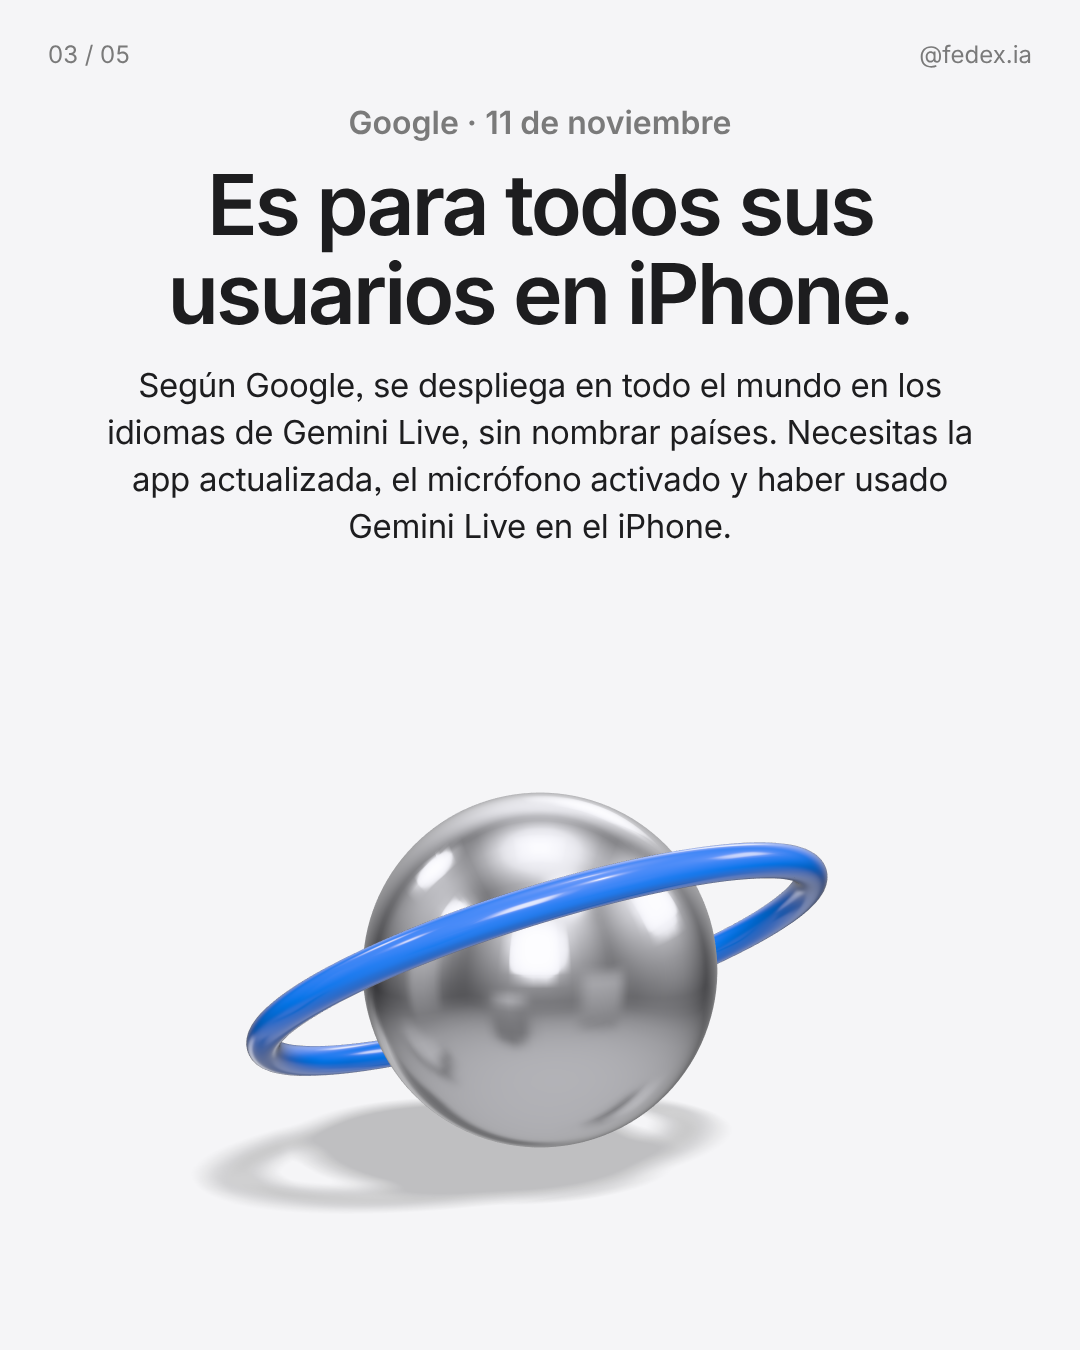
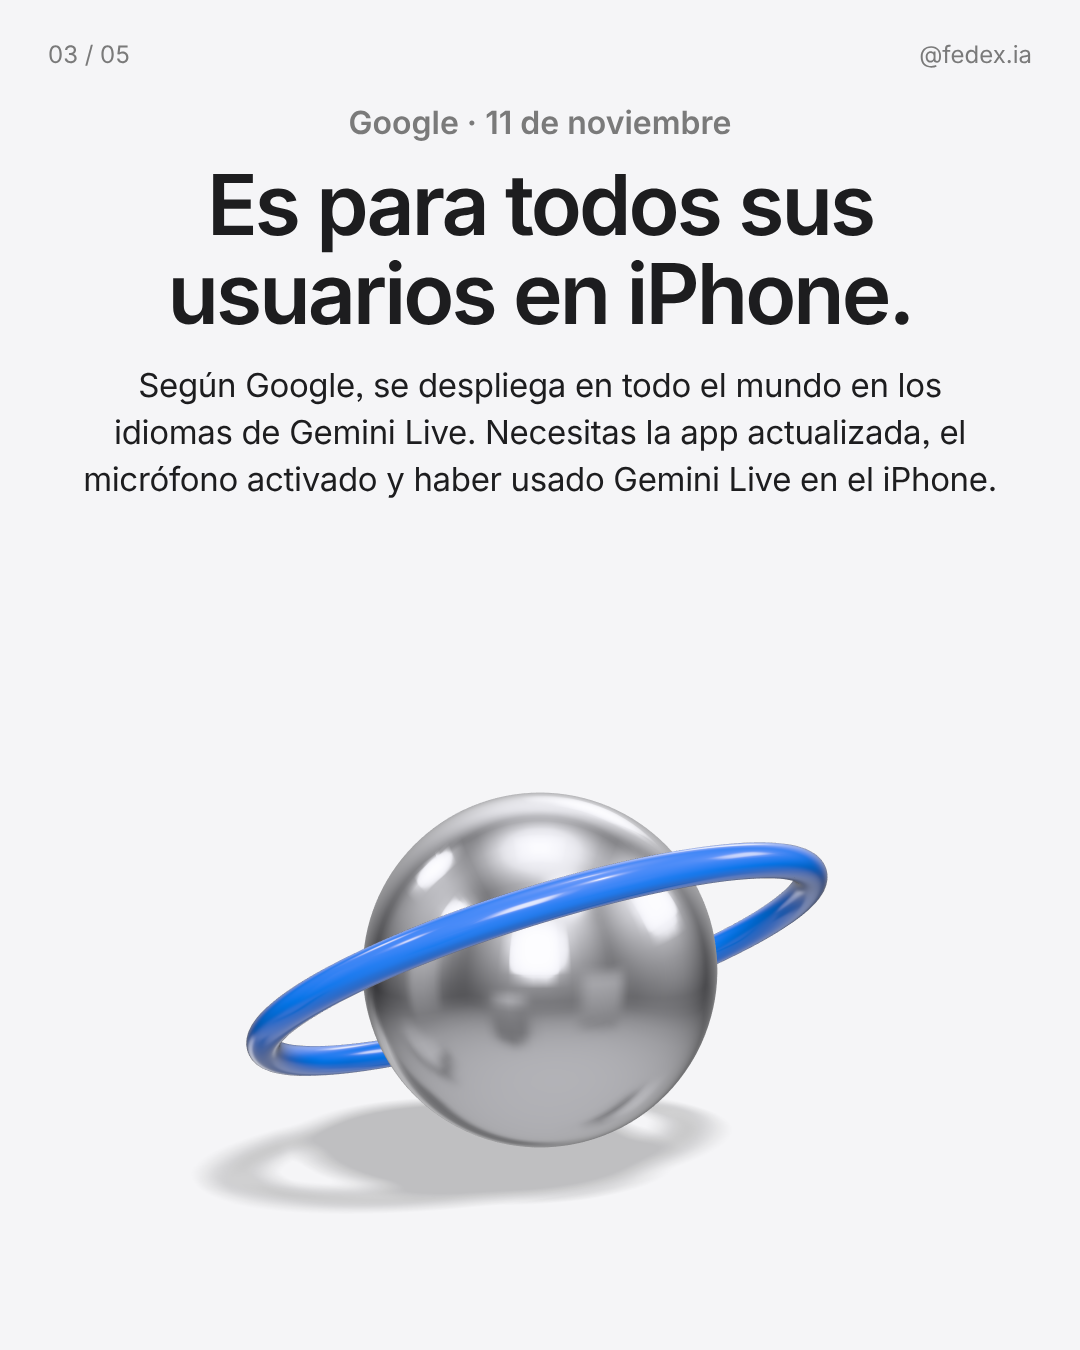
Borrador 2026-11-12: gemini carplay (editar slide 3, aprobado)
Claude-Session: https://claude.ai/code/session_01RSDjsLwTKKPY2BZcr63Sp4

Changed region(s): [[0.0611, 0.3111, 0.9167, 0.4044]]

diff --git a/diario/2026-11-12-diario-gemini-carplay/copy.md b/diario/2026-11-12-diario-gemini-carplay/copy.md
@@ -1,4 +1,4 @@
-Estado: pendiente de aprobación
+Estado: aprobado, pasado a main
 
 # Gemini Live llega a Apple CarPlay (Google, 11 de noviembre de 2026)
 
@@ -20,7 +20,7 @@ Horario de Buffer propuesto: viernes 13 de noviembre, 07:11 (Buenos Aires). El d
 |---|---|---|---|---|
 | 01 | Blanco | Eyebrow: Google · 11 de noviembre. Titular: Gemini ya conversa contigo en el auto. Bajada: Google llevó Gemini Live a Apple CarPlay. Qué hace y qué necesitas. Pastillas: Gemini en CarPlay / Desliza → | Aro azul de pie y esfera perla | Ilustración 3D de un aro azul de pie, como un volante, junto a una esfera perla. Texto: Gemini ya conversa contigo en el auto. |
 | 02 | Oscuro | Titular: Gemini Live llega a la pantalla del auto. Cuerpo: Según Google, puedes conversar con Gemini sin usar las manos mientras manejas. Le preguntas por tu agenda, te pone al día con el correo o te ayuda a pensar ideas. | Pantalla ancha perla sobre base plateada y esfera azul | Ilustración 3D de una pantalla ancha perla sobre una base plateada, con una esfera azul delante. Texto: Gemini Live llega a la pantalla del auto. |
-| 03 | Gris | Titular: Es para todos sus usuarios en iPhone. Cuerpo: Según Google, se despliega en todo el mundo en los idiomas de Gemini Live, sin nombrar países. Necesitas la app actualizada, el micrófono activado y haber usado Gemini Live en el iPhone. | Esfera plateada con anillo azul | Ilustración 3D de una esfera plateada rodeada por un anillo azul inclinado. Texto: Es para todos sus usuarios en iPhone. |
+| 03 | Gris | Titular: Es para todos sus usuarios en iPhone. Cuerpo: Según Google, se despliega en todo el mundo en los idiomas de Gemini Live. Necesitas la app actualizada, el micrófono activado y haber usado Gemini Live en el iPhone. | Esfera plateada con anillo azul | Ilustración 3D de una esfera plateada rodeada por un anillo azul inclinado. Texto: Es para todos sus usuarios en iPhone. |
 | 04 | Oscuro | Titular: Agenda y correo sin tocar el celular. Cuerpo: Gemini se conecta con Gmail y Google Calendar para ponerte al día mientras manejas. El resumen diario no está disponible en el EEE, en Nigeria ni para menores de 18. | Dos tarjetas (perla y azul) y cubo blanco | Ilustración 3D de dos tarjetas finas inclinadas, una perla y otra azul, apoyadas en un cubo blanco. Texto: Agenda y correo sin tocar el celular. |
 | 05 | Blanco | Titular: ¿Qué le pedirías al volante? Cuerpo: Guarda el post para tu próximo viaje. Pastillas: Seguí a @fedex.ia / Guardar. Fuente: blog.google › | Objeto «cierre» del kit | Ilustración 3D de un marcador azul sobre una tarjeta perla. Texto: ¿Qué le pedirías al volante? |
 
